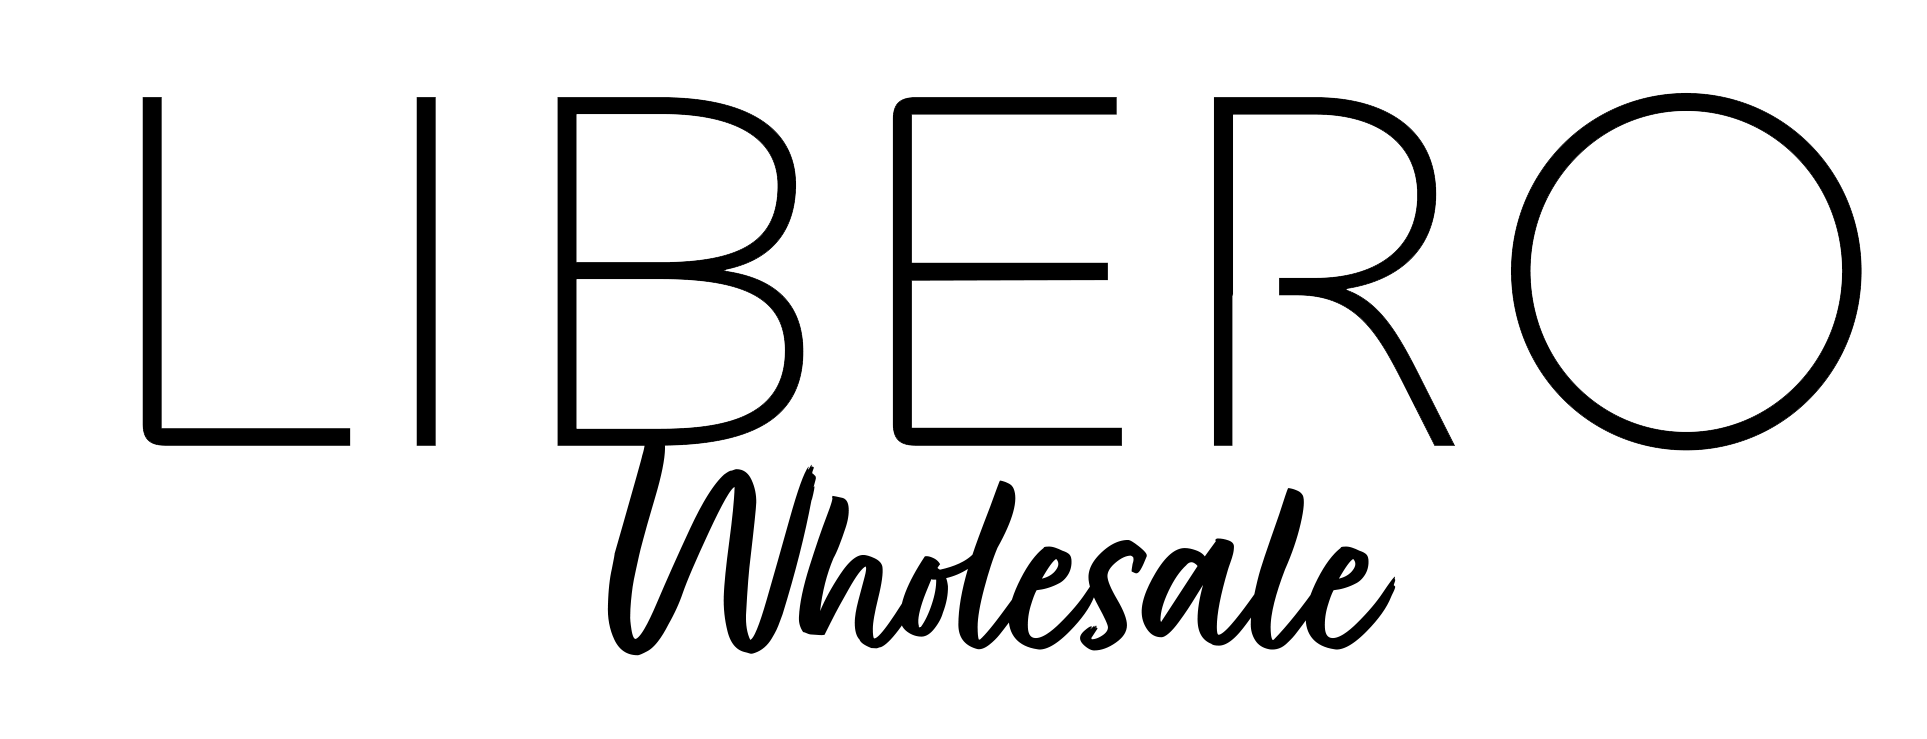
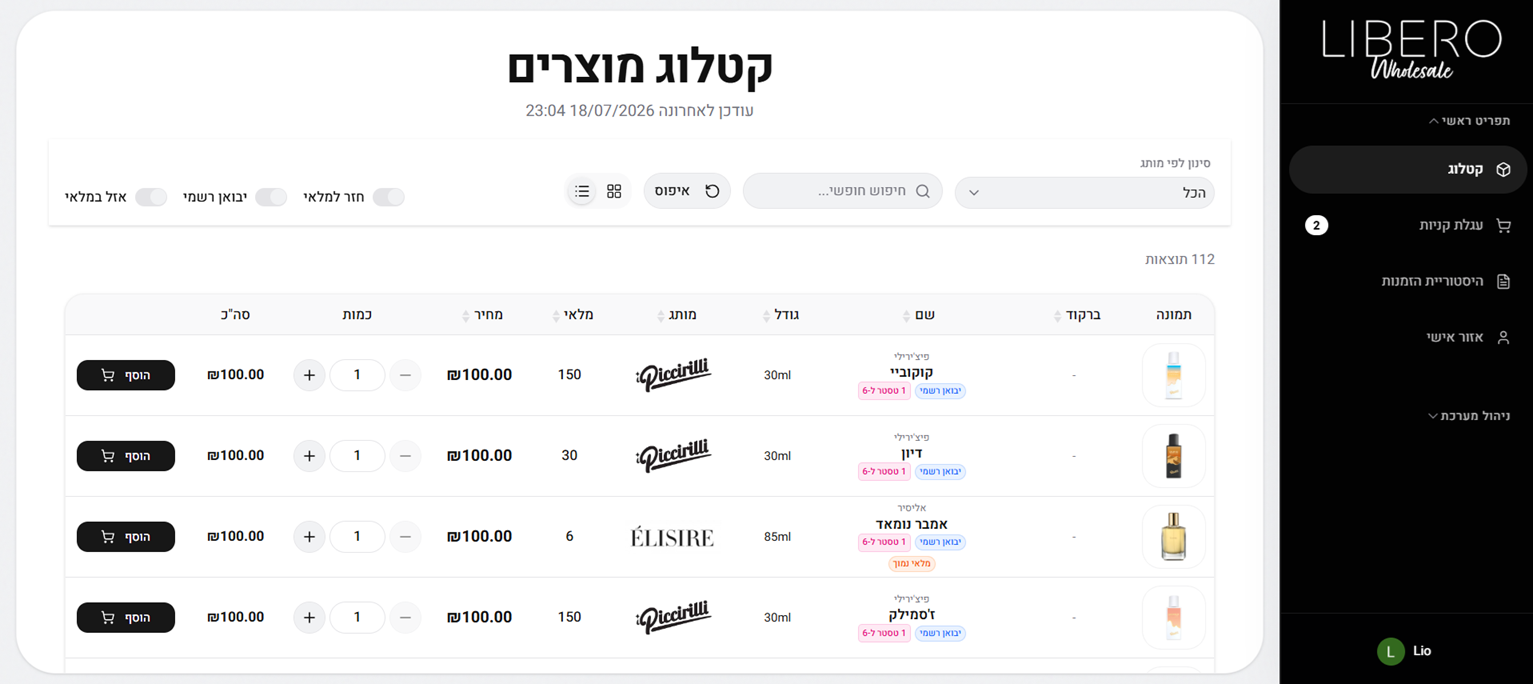
fix: change scroll trigger start for contact section to top 95% to ensure it fires at the bottom of the page

diff --git a/src/components/sections/contact.tsx b/src/components/sections/contact.tsx
@@ -48,7 +48,7 @@ export function ContactSection() {
         ease: "power3.out",
         scrollTrigger: {
           trigger: ".contact-header",
-          start: "top 85%",
+          start: "top 95%",
         },
       });
 
@@ -61,7 +61,7 @@ export function ContactSection() {
         ease: "power3.out",
         scrollTrigger: {
           trigger: ".contact-cards-container",
-          start: "top 85%",
+          start: "top 95%",
         },
       });
     },